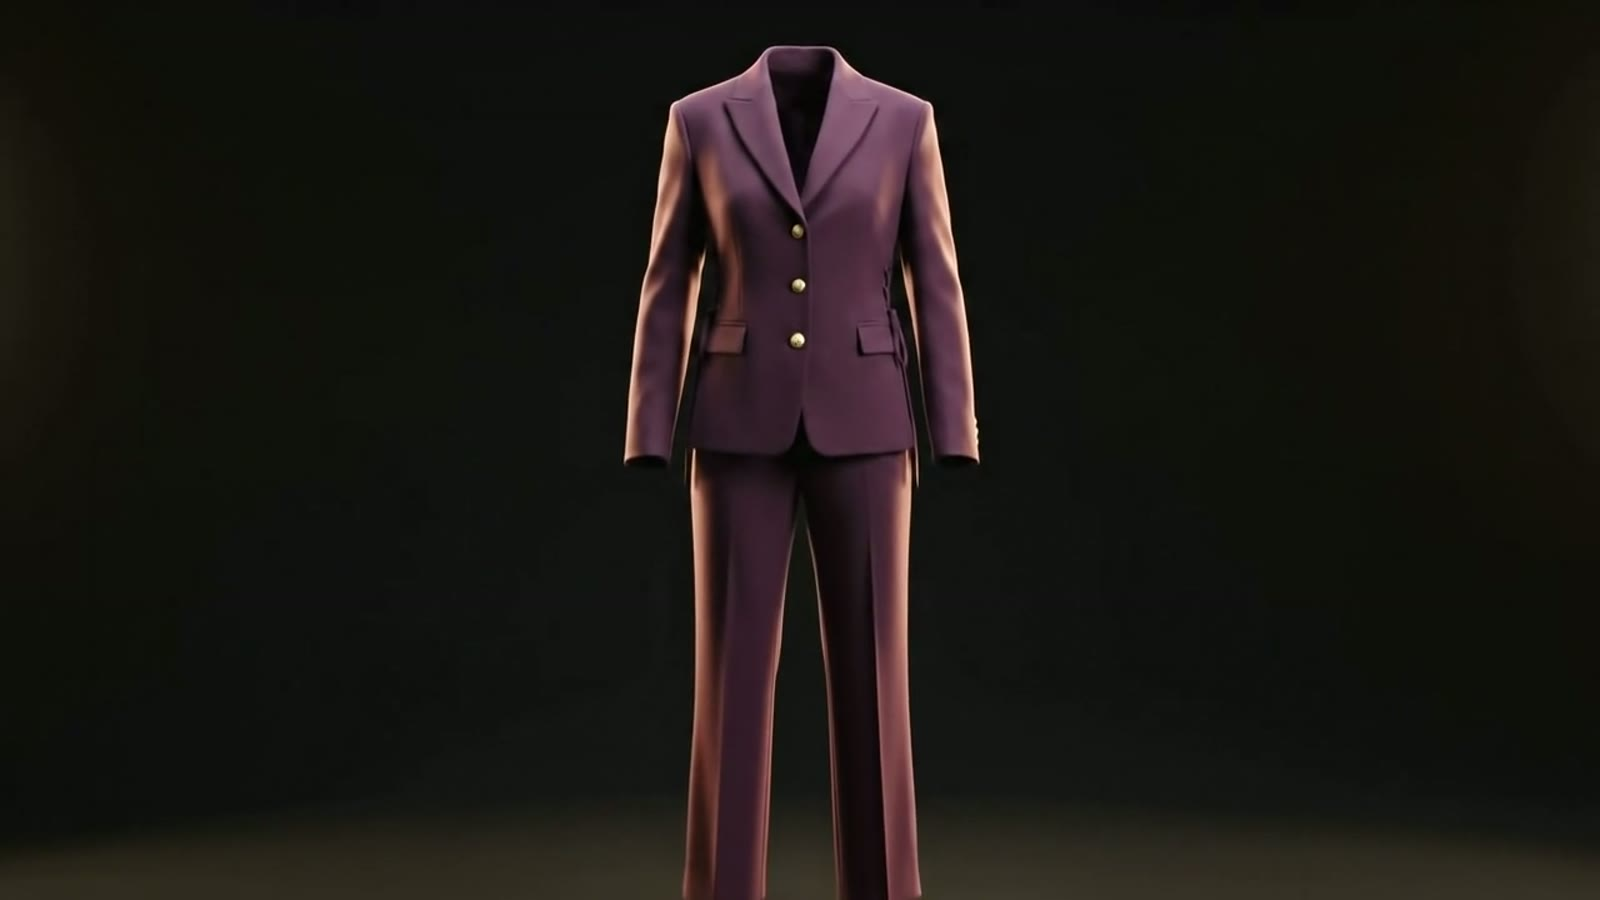
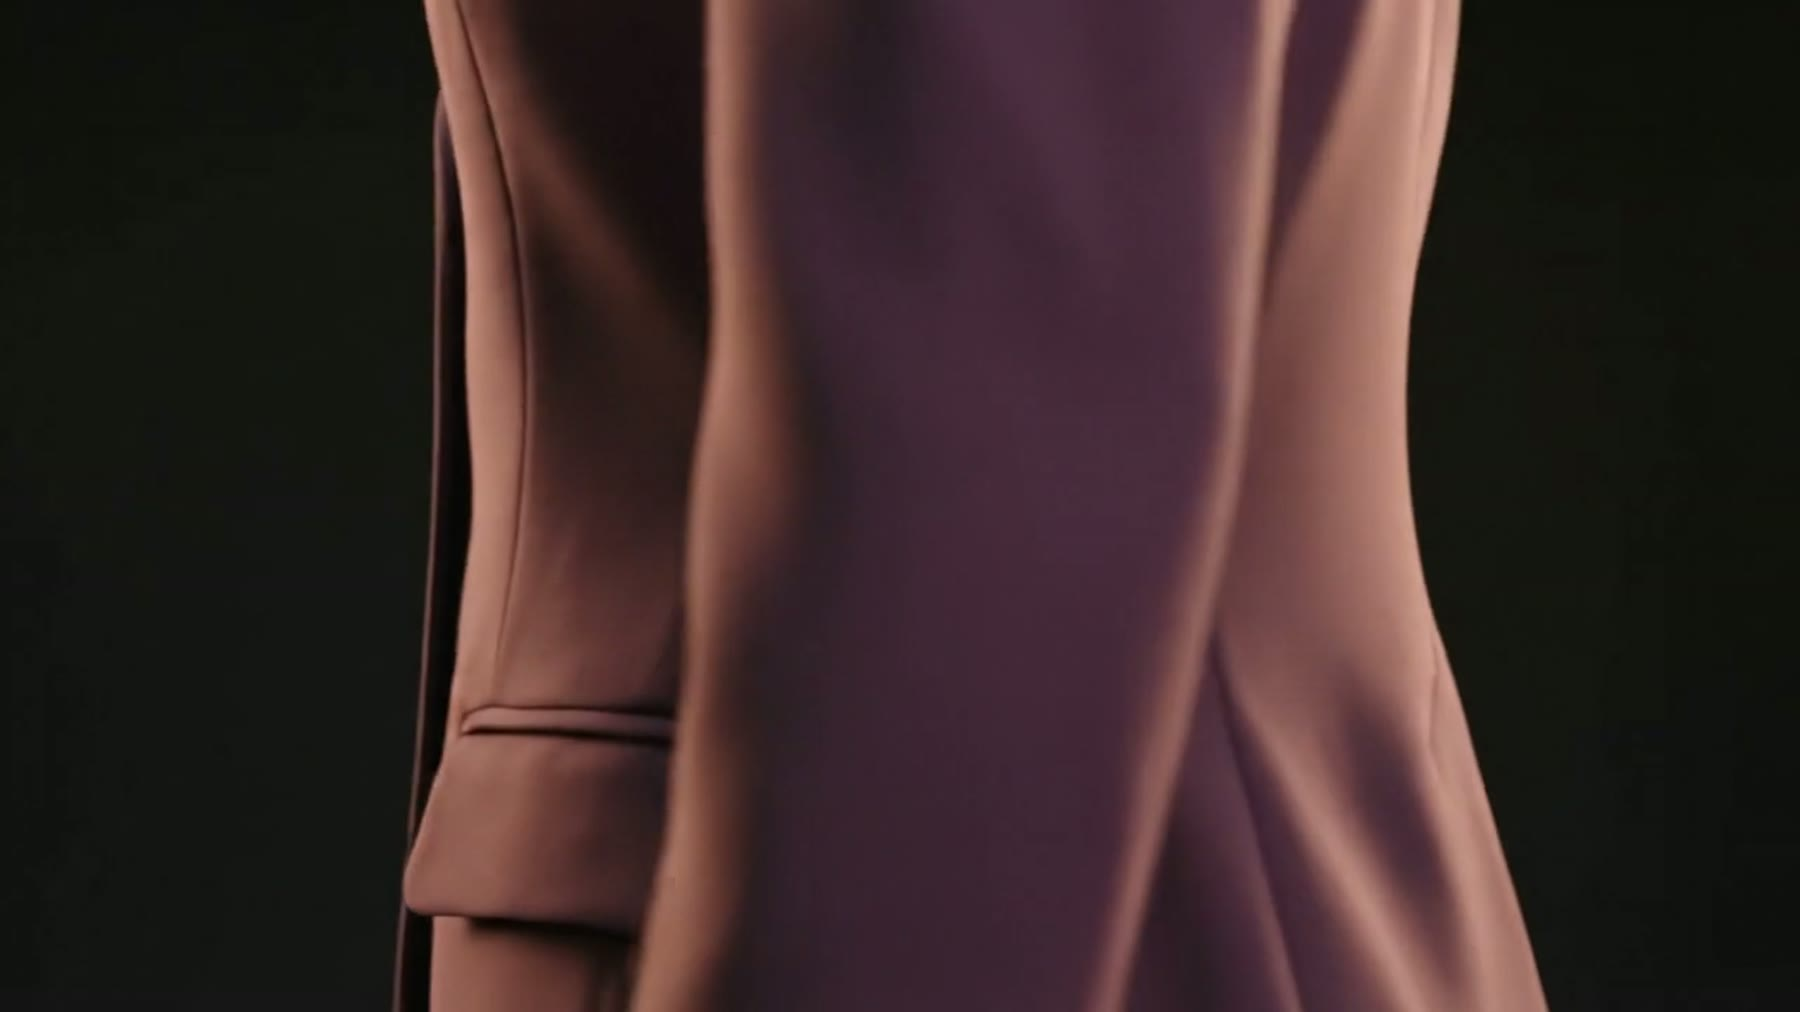
Bigger nav mark, new countdown ground, held beat on the finished suit, press-and-hold film on touch

diff --git a/src/components/HeroScrub.tsx b/src/components/HeroScrub.tsx
@@ -1,6 +1,6 @@
 'use client';
 
-import { useEffect, useRef, useState } from 'react';
+import { useEffect, useRef, useState, useSyncExternalStore } from 'react';
 import { gsap } from 'gsap';
 import { ScrollTrigger } from 'gsap/ScrollTrigger';
 
@@ -47,6 +47,18 @@ const BEATS = [
   { from: 0.80, to: 1.0, line: 'Seven pieces. One first run.', place: 'centre' },
 ] as const;
 
+/**
+ * The film finishes before the scroll does.
+ *
+ * Mapping the last frame to the very end of the track meant the complete suit appeared and was
+ * immediately carried off — no time to actually look at it. Frames now finish at 76% of the
+ * track, and the remaining 24% (roughly two unhurried scrolls at a 700svh track) holds on the
+ * finished silhouette before the section releases.
+ */
+const FILM_ENDS_AT = 0.76;
+
+const filmProgress = (raw: number) => Math.min(1, raw / FILM_ENDS_AT);
+
 /** Fade in, hold, fade out across a window. */
 function beatOpacity(p: number, from: number, to: number) {
   if (p <= from || p >= to) return 0;
@@ -55,7 +67,41 @@ function beatOpacity(p: number, from: number, to: number) {
   return Math.min(1, Math.min(t / edge, (1 - t) / edge));
 }
 
+/**
+ * Touch devices get a different interaction entirely.
+ *
+ * Scrubbing a pinned section with a thumb is genuinely awkward: momentum overshoots, the browser
+ * chrome collapses mid-gesture and re-measures the pin, and the finger covers the thing it is
+ * revealing. Press-and-hold is calmer and more tactile — you hold, the film unfolds; you let go,
+ * it waits. Nothing is pinned, so native scrolling is never touched.
+ */
+const COARSE = '(pointer: coarse)';
+
+function subscribeCoarse(cb: () => void) {
+  const mq = window.matchMedia(COARSE);
+  mq.addEventListener('change', cb);
+  return () => mq.removeEventListener('change', cb);
+}
+
+function usePointerCoarse() {
+  return useSyncExternalStore(
+    subscribeCoarse,
+    () => window.matchMedia(COARSE).matches,
+    () => false,
+  );
+}
+
+/** Continuous holding needed to run the whole film, in ms. Close to the source's own 10s. */
+const HOLD_DURATION = 11000;
+
 export function HeroScrub({ reducedMotion = false }: { reducedMotion?: boolean }) {
+  const coarse = usePointerCoarse();
+  const holdRef = useRef(0);
+  const heldRef = useRef(false);
+  const lastTsRef = useRef(0);
+  const holdRafRef = useRef(0);
+  const barRef = useRef<HTMLSpanElement | null>(null);
+  const [holdDone, setHoldDone] = useState(false);
   const trackRef = useRef<HTMLDivElement>(null);
   const canvasRef = useRef<HTMLCanvasElement>(null);
   const beatRefs = useRef<Array<HTMLDivElement | null>>([]);
@@ -256,9 +302,48 @@ export function HeroScrub({ reducedMotion = false }: { reducedMotion?: boolean }
     return Math.abs(target - frame) < 0.6 ? null : target;
   };
 
-  /* ---------- pin + scrub ---------- */
+  /* ---------- touch: press and hold ---------- */
+  const tick = (ts: number) => {
+    if (!heldRef.current) return;
+    const dt = lastTsRef.current ? ts - lastTsRef.current : 16;
+    lastTsRef.current = ts;
+
+    holdRef.current = Math.min(1, holdRef.current + dt / HOLD_DURATION);
+    draw(holdRef.current);
+    if (barRef.current) barRef.current.style.width = `${holdRef.current * 100}%`;
+
+    if (holdRef.current >= 1) {
+      heldRef.current = false;
+      setHoldDone(true);
+      return;
+    }
+    holdRafRef.current = requestAnimationFrame(tick);
+  };
+
+  const startHold = () => {
+    if (holdRef.current >= 1) return;
+    heldRef.current = true;
+    lastTsRef.current = 0;
+    cancelAnimationFrame(holdRafRef.current);
+    holdRafRef.current = requestAnimationFrame(tick);
+  };
+
+  const endHold = () => {
+    heldRef.current = false;
+    cancelAnimationFrame(holdRafRef.current);
+  };
+
+  useEffect(() => () => cancelAnimationFrame(holdRafRef.current), []);
+
+  // First paint for the hold layout, once frames are in.
   useEffect(() => {
-    if (reducedMotion || !ready) return;
+    if (coarse && ready && !reducedMotion) draw(holdRef.current);
+    // eslint-disable-next-line react-hooks/exhaustive-deps
+  }, [coarse, ready, reducedMotion]);
+
+  /* ---------- pointer: pin + scrub ---------- */
+  useEffect(() => {
+    if (reducedMotion || coarse || !ready) return;
     const track = trackRef.current;
     if (!track) return;
     draw(0);
@@ -291,7 +376,7 @@ export function HeroScrub({ reducedMotion = false }: { reducedMotion?: boolean }
         // Any movement cancels a settle in progress — the finger always wins.
         cancelAnimationFrame(settleRef.current);
         clearTimeout(idleRef.current);
-        draw(self.progress);
+        draw(filmProgress(self.progress));
         idleRef.current = window.setTimeout(settle, 200);
       },
       onRefresh: () => draw(progressRef.current),
@@ -303,7 +388,68 @@ export function HeroScrub({ reducedMotion = false }: { reducedMotion?: boolean }
       cancelAnimationFrame(settleRef.current);
     };
     // eslint-disable-next-line react-hooks/exhaustive-deps
-  }, [ready, reducedMotion]);
+  }, [ready, reducedMotion, coarse]);
+
+  /* ---------- touch layout: one screen, held rather than scrubbed ---------- */
+  if (coarse && !reducedMotion) {
+    return (
+      <section id="film" data-ground="dark" className="relative h-[100svh] w-full overflow-hidden bg-[#0E0A09]">
+        <canvas ref={canvasRef} className="absolute inset-0 h-full w-full" aria-hidden />
+
+        <div
+          aria-hidden
+          className="pointer-events-none absolute inset-0"
+          style={{ background: 'radial-gradient(115% 75% at 50% 40%, transparent 45%, rgba(14,10,9,0.72) 100%)' }}
+        />
+
+        {BEATS.map((b, i) => (
+          <div
+            key={b.line}
+            ref={(el) => { beatRefs.current[i] = el; }}
+            className="pointer-events-none absolute inset-x-6 top-[14svh] z-10 text-ivory"
+            style={{ opacity: 0, visibility: 'hidden', willChange: 'opacity, transform' }}
+          >
+            <p className="display-lg max-w-[14em]" style={{ textShadow: '0 2px 40px rgba(14,10,9,0.6)' }}>
+              {b.line}
+            </p>
+          </div>
+        ))}
+
+        {/*
+          The hold target. `touch-action: none` so the gesture is ours and the page never scrolls
+          underneath a held finger; everything outside this strip scrolls completely normally.
+        */}
+        <div
+          role="button"
+          tabIndex={0}
+          aria-label="Press and hold to play the film"
+          onPointerDown={(e) => { e.currentTarget.setPointerCapture(e.pointerId); startHold(); }}
+          onPointerUp={endHold}
+          onPointerCancel={endHold}
+          onPointerLeave={endHold}
+          onKeyDown={(e) => { if (e.key === 'Enter' || e.key === ' ') { e.preventDefault(); startHold(); } }}
+          onKeyUp={endHold}
+          className="absolute inset-x-0 bottom-0 z-20 flex h-[34svh] select-none flex-col items-center justify-end pb-12"
+          style={{ touchAction: 'none' }}
+        >
+          <span className="eyebrow mb-5 text-ivory/70">
+            {holdDone ? 'Scroll on' : 'Press and hold'}
+          </span>
+          <span aria-hidden className="relative block h-px w-[58%] max-w-[280px] bg-ivory/20">
+            <span ref={barRef} className="absolute inset-y-0 left-0 block bg-ivory/70" style={{ width: '0%' }} />
+          </span>
+        </div>
+
+        {!ready && (
+          <div className="absolute inset-x-0 top-0 z-20 h-px bg-ivory/10">
+            <div className="h-full bg-ivory/45 transition-[width] duration-500 ease-out" style={{ width: `${pct}%` }} />
+          </div>
+        )}
+
+        <div className="sr-only">{BEATS.map((b) => <p key={b.line}>{b.line}</p>)}</div>
+      </section>
+    );
+  }
 
   /* ---------- reduced motion: one still, full narrative as text ---------- */
   if (reducedMotion) {
@@ -327,7 +473,9 @@ export function HeroScrub({ reducedMotion = false }: { reducedMotion?: boolean }
       id="film"
       ref={trackRef}
       data-ground="dark"
-      className="relative h-[520svh] bg-[#0E0A09]"
+      // Longer than the film needs on purpose: the extra distance is what buys the unhurried
+      // scroll rate through the sequence and the held beat on the finished suit at the end.
+      className="relative h-[700svh] bg-[#0E0A09]"
       aria-label="The RORA suit, in film"
     >
       <div className="sticky top-0 h-[100svh] w-full overflow-hidden">

diff --git a/src/components/Nav.tsx b/src/components/Nav.tsx
@@ -52,8 +52,14 @@ export function Nav() {
         transition: 'color 900ms cubic-bezier(0.22,1,0.36,1)',
       }}
     >
-      <nav className="shell flex items-center justify-between py-5 sm:py-7">
-        <a href="#top" aria-label="RORA — top" className="pointer-events-auto relative block h-[18px] w-[54px] sm:h-[21px] sm:w-[62px]">
+      <nav className="shell flex items-center justify-between py-7 sm:py-9">
+        {/* The mark carries the brand, so it is given real presence rather than being tucked
+            into a corner. Still no bar, no background — the chrome stays invisible. */}
+        <a
+          href="#top"
+          aria-label="RORA — top"
+          className="pointer-events-auto relative block h-[30px] w-[92px] sm:h-[38px] sm:w-[116px]"
+        >
           {/* eslint-disable-next-line @next/next/no-img-element */}
           <img
             src="/brand/rora-dark.png"
@@ -72,7 +78,7 @@ export function Nav() {
 
         <a
           href="#interest"
-          className="eyebrow pointer-events-auto border-b border-current pb-1 opacity-70 transition-opacity duration-500 hover:opacity-100"
+          className="eyebrow pointer-events-auto border-b border-current pb-1.5 text-[0.75rem] opacity-75 transition-opacity duration-500 hover:opacity-100"
         >
           Request access
         </a>
